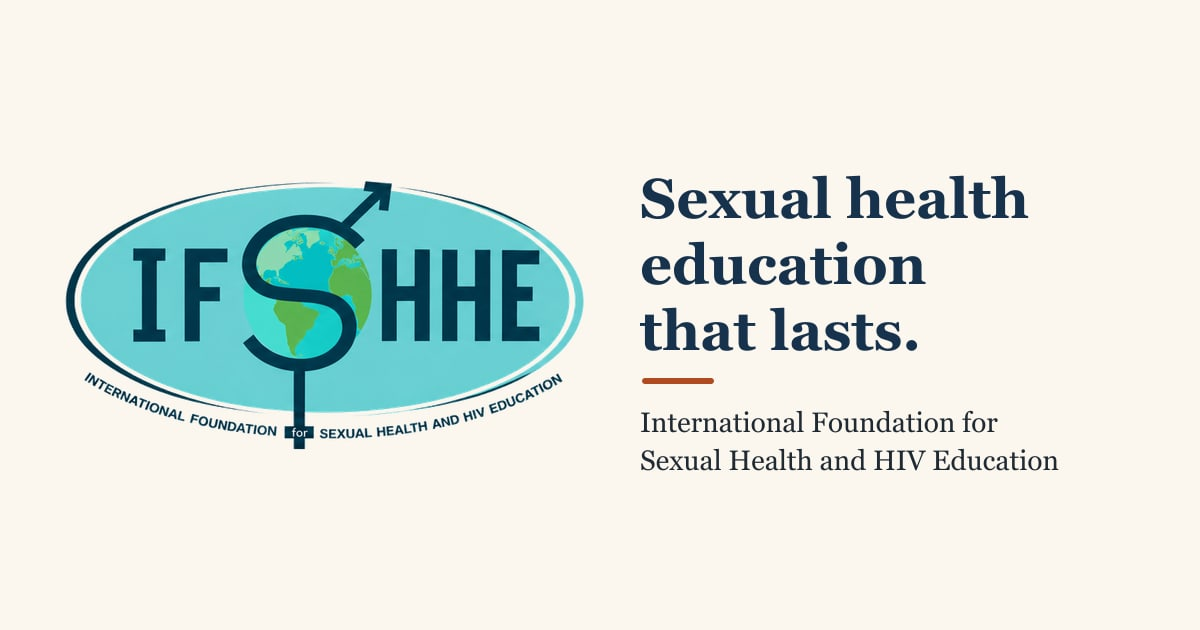
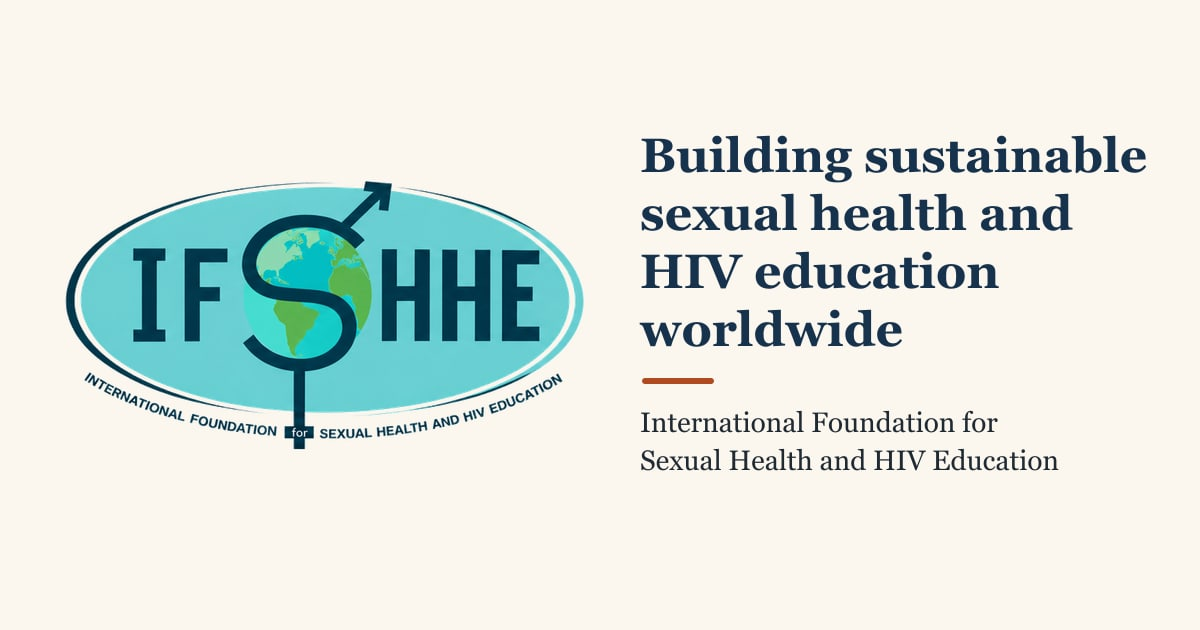
Launch prep: Sudan write-up from SHAWG report, old-site hero heading, coming-soon panels, private visitor counter
- Sudan panel rewritten from the 2023 SHAWG course report (en/ar/sw/ha)
- Hero heading and OG image use the old site's heading
- Nigeria and Tanzania panels marked "coming soon"
- Stats (94 trained, 3 courses) and Instagram link added
- Visitor counter no longer shown; GET requires VISITS_KEY
- Ignore client .docx source files

Changed region(s): [[0.5242, 0.2111, 0.9558, 0.573]]

diff --git a/js/i18n.js b/js/i18n.js
@@ -42,7 +42,7 @@ window.IFSHHE_I18N = {
 
     /* Hero */
     "hero.kicker": "Independent · Volunteer-led · UK-based",
-    "hero.title": "Sexual health education that lasts.",
+    "hero.title": "Building sustainable sexual health and HIV education worldwide",
     "hero.lede": "We are a volunteer-led foundation of UK clinicians. We work alongside doctors, nurses and educators in Sudan, Nigeria and Tanzania to build sexual health, HIV and hepatitis education that keeps going long after we go home — designed with local clinicians, not for them.",
     "hero.cta1": "Partner with us",
     "hero.cta2": "See where we work",
@@ -101,15 +101,19 @@ window.IFSHHE_I18N = {
     "where.yearLabel": "Year",
     "where.didLabel": "What we did",
     "where.ledLabel": "What it led to",
+    "where.soon": "Full details coming soon.",
     "where.selected": "selected",
     "where.homeLabel": "Home",
 
     "country.sd.name": "Sudan",
-    "country.sd.partner": "SHAWG",
-    "country.sd.summary": "A foundation programme in sexually transmitted infections, built and taught with SHAWG for clinicians across Sudan.",
-    "country.sd.b1": "Foundation STI training programme co-designed with SHAWG",
-    "country.sd.b2": "Case-based teaching on diagnosis and management of common STIs",
-    "country.sd.outcome": "Local clinicians now have a shared foundation course to build on.",
+    "country.sd.partner": "SHAWG · Sudan Ministry of Health",
+    "country.sd.when": "February–March 2023",
+    "country.sd.summary": "Our first course: a three-day foundation course in sexually transmitted infections for clinicians in Khartoum, delivered with the Sudan HIV/AIDS Working Group (SHAWG) and endorsed by the Sudan Ministry of Health.",
+    "country.sd.b1": "Taught 42 clinicians at the Omdurman HIV/AIDS Antiretroviral Therapy Centre",
+    "country.sd.b2": "Adapted the UK STI Foundation course for Sudan, adding HIV, hepatitis, sexual dysfunction and TB, with local speakers",
+    "country.sd.b3": "Lectures, small-group work, role play and practical sessions shaped to the local cultural and religious context",
+    "country.sd.b4": "Supported by the IOM Health Development Programme, the Patients Helping Fund and the WHO",
+    "country.sd.outcome": "Participants rated the teaching 4–5 out of 5 and asked for more, leading to plans for courses in other regions of Sudan and for training local trainers.",
     "country.sd.cta": "Ask about working with us in Sudan",
 
     "country.ng.name": "Nigeria",
@@ -248,8 +252,6 @@ window.IFSHHE_I18N = {
     "footer.insta": "Instagram",
     "footer.instaSoon": "Instagram — coming soon",
     "footer.based": "Based in the United Kingdom",
-    "footer.visits": "Visits since launch",
-    "footer.visitsLabel": "Visitor counter",
     "footer.copyright": "International Foundation for Sexual Health and HIV Education. All rights reserved.",
 
     /* thank-you.html */
@@ -297,7 +299,7 @@ window.IFSHHE_I18N = {
 
     /* Hero */
     "hero.kicker": "مستقلة · بقيادة متطوعين · مقرها المملكة المتحدة",
-    "hero.title": "تعليم في الصحة الجنسية يدوم أثره.",
+    "hero.title": "نبني تعليماً مستداماً في الصحة الجنسية وفيروس نقص المناعة البشرية حول العالم",
     "hero.lede": "نحن مؤسسة يقودها متطوعون من الأطباء العاملين في المملكة المتحدة. نعمل جنباً إلى جنب مع الأطباء والممرضين والمعلمين في السودان ونيجيريا وتنزانيا لبناء تعليم في الصحة الجنسية وفيروس نقص المناعة البشرية والتهاب الكبد يستمر طويلاً بعد عودتنا إلى بلادنا — تعليم مصمَّم مع الأطباء المحليين، لا نيابةً عنهم.",
     "hero.cta1": "كن شريكاً لنا",
     "hero.cta2": "اكتشف أين نعمل",
@@ -356,15 +358,19 @@ window.IFSHHE_I18N = {
     "where.yearLabel": "السنة",
     "where.didLabel": "ما قمنا به",
     "where.ledLabel": "ما أدى إليه",
+    "where.soon": "التفاصيل الكاملة قريباً.",
     "where.selected": "محدد",
     "where.homeLabel": "المقر",
 
     "country.sd.name": "السودان",
-    "country.sd.partner": "SHAWG",
-    "country.sd.summary": "برنامج تأسيسي في الأمراض المنقولة جنسياً، بُني ودُرّس بالتعاون مع SHAWG للأطباء في مختلف أنحاء السودان.",
-    "country.sd.b1": "برنامج تدريبي تأسيسي في الأمراض المنقولة جنسياً صُمّم بالاشتراك مع SHAWG",
-    "country.sd.b2": "تدريس قائم على الحالات في تشخيص الأمراض المنقولة جنسياً الشائعة وعلاجها",
-    "country.sd.outcome": "أصبح لدى الأطباء المحليين الآن دورة تأسيسية مشتركة يبنون عليها.",
+    "country.sd.partner": "SHAWG · وزارة الصحة السودانية",
+    "country.sd.when": "فبراير–مارس 2023",
+    "country.sd.summary": "دورتنا الأولى: دورة تأسيسية مدتها ثلاثة أيام في الأمراض المنقولة جنسياً للأطباء في الخرطوم، نُفّذت بالتعاون مع مجموعة عمل السودان لفيروس نقص المناعة البشرية/الإيدز (SHAWG) وبمصادقة وزارة الصحة السودانية.",
+    "country.sd.b1": "تدريب 42 طبيباً في مركز أم درمان للعلاج بمضادات الفيروسات القهقرية لفيروس نقص المناعة البشرية/الإيدز",
+    "country.sd.b2": "تكييف الدورة التأسيسية البريطانية للأمراض المنقولة جنسياً للسودان، مع إضافة فيروس نقص المناعة البشرية والتهاب الكبد والاضطرابات الجنسية والسل، بمشاركة متحدثين محليين",
+    "country.sd.b3": "محاضرات وعمل في مجموعات صغيرة ولعب أدوار وجلسات عملية تراعي السياق الثقافي والديني المحلي",
+    "country.sd.b4": "بدعم من برنامج التنمية الصحية التابع للمنظمة الدولية للهجرة، وصندوق إعانة المرضى، ومنظمة الصحة العالمية",
+    "country.sd.outcome": "قيّم المشاركون التدريس بدرجة 4–5 من 5 وطلبوا المزيد، ما أدى إلى خطط لدورات في مناطق أخرى من السودان ولتدريب مدربين محليين.",
     "country.sd.cta": "اسأل عن العمل معنا في السودان",
 
     "country.ng.name": "نيجيريا",
@@ -503,8 +509,6 @@ window.IFSHHE_I18N = {
     "footer.insta": "إنستغرام",
     "footer.instaSoon": "إنستغرام — قريباً",
     "footer.based": "مقرنا في المملكة المتحدة",
-    "footer.visits": "الزيارات منذ الإطلاق",
-    "footer.visitsLabel": "عداد الزوار",
     "footer.copyright": "المؤسسة الدولية للتثقيف في الصحة الجنسية وفيروس نقص المناعة البشرية. جميع الحقوق محفوظة.",
 
     /* thank-you.html */
@@ -552,7 +556,7 @@ window.IFSHHE_I18N = {
 
     /* Hero */
     "hero.kicker": "Huru · Inaongozwa na wajitolea · Makao yake Uingereza",
-    "hero.title": "Elimu ya afya ya ngono inayodumu.",
+    "hero.title": "Kujenga elimu endelevu ya afya ya ngono na VVU duniani kote",
     "hero.lede": "Sisi ni taasisi inayoongozwa na wajitolea, matabibu kutoka Uingereza. Tunashirikiana na madaktari, wauguzi na waelimishaji nchini Sudan, Nigeria na Tanzania kujenga elimu ya afya ya ngono, VVU na homa ya ini inayoendelea muda mrefu baada ya sisi kurudi nyumbani — iliyobuniwa pamoja na matabibu wa ndani, si kwa niaba yao.",
     "hero.cta1": "Shirikiana nasi",
     "hero.cta2": "Ona tunapofanya kazi",
@@ -611,15 +615,19 @@ window.IFSHHE_I18N = {
     "where.yearLabel": "Mwaka",
     "where.didLabel": "Tulichofanya",
     "where.ledLabel": "Kilichotokana nacho",
+    "where.soon": "Maelezo kamili yanakuja hivi karibuni.",
     "where.selected": "imechaguliwa",
     "where.homeLabel": "Makao",
 
     "country.sd.name": "Sudan",
-    "country.sd.partner": "SHAWG",
-    "country.sd.summary": "Programu ya msingi kuhusu magonjwa ya zinaa, iliyojengwa na kufundishwa pamoja na SHAWG kwa matabibu kote Sudan.",
-    "country.sd.b1": "Programu ya msingi ya mafunzo ya magonjwa ya zinaa iliyobuniwa pamoja na SHAWG",
-    "country.sd.b2": "Ufundishaji unaotegemea kesi za wagonjwa kuhusu utambuzi na matibabu ya magonjwa ya zinaa ya kawaida",
-    "country.sd.outcome": "Matabibu wa ndani sasa wana kozi ya msingi ya pamoja ya kujengea.",
+    "country.sd.partner": "SHAWG · Wizara ya Afya ya Sudan",
+    "country.sd.when": "Februari–Machi 2023",
+    "country.sd.summary": "Kozi yetu ya kwanza: kozi ya msingi ya siku tatu kuhusu magonjwa ya zinaa kwa matabibu mjini Khartoum, iliyotolewa pamoja na Kikundi Kazi cha VVU/UKIMWI cha Sudan (SHAWG) na kuidhinishwa na Wizara ya Afya ya Sudan.",
+    "country.sd.b1": "Tulifundisha matabibu 42 katika Kituo cha Tiba ya Dawa za Kufubaza VVU cha Omdurman",
+    "country.sd.b2": "Tulirekebisha kozi ya msingi ya magonjwa ya zinaa ya Uingereza kwa Sudan, tukiongeza VVU, homa ya ini, matatizo ya kingono na TB, pamoja na wazungumzaji wa ndani",
+    "country.sd.b3": "Mihadhara, kazi za vikundi vidogo, maigizo dhima na vipindi vya vitendo vilivyozingatia muktadha wa kitamaduni na kidini wa eneo hilo",
+    "country.sd.b4": "Kwa msaada wa Programu ya Maendeleo ya Afya ya IOM, Mfuko wa Kusaidia Wagonjwa na WHO",
+    "country.sd.outcome": "Washiriki waliupa ufundishaji alama 4–5 kati ya 5 na kuomba zaidi, jambo lililosababisha mipango ya kozi katika maeneo mengine ya Sudan na ya kuwafunza wakufunzi wa ndani.",
     "country.sd.cta": "Uliza kuhusu kufanya kazi nasi Sudan",
 
     "country.ng.name": "Nigeria",
@@ -758,8 +766,6 @@ window.IFSHHE_I18N = {
     "footer.insta": "Instagram",
     "footer.instaSoon": "Instagram — inakuja hivi karibuni",
     "footer.based": "Makao yake Uingereza",
-    "footer.visits": "Ziara tangu kuzinduliwa",
-    "footer.visitsLabel": "Kihesabu wageni",
     "footer.copyright": "Taasisi ya Kimataifa ya Elimu ya Afya ya Ngono na VVU. Haki zote zimehifadhiwa.",
 
     /* thank-you.html */
@@ -807,7 +813,7 @@ window.IFSHHE_I18N = {
 
     /* Hero */
     "hero.kicker": "Mai zaman kanta · Masu sa kai ke jagoranta · Mazauna Birtaniya",
-    "hero.title": "Ilimin lafiyar jima'i mai ɗorewa.",
+    "hero.title": "Gina ilimin lafiyar jima'i da HIV mai ɗorewa a faɗin duniya",
     "hero.lede": "Mu gidauniya ce da masu sa kai ke jagoranta, likitoci daga Birtaniya. Muna aiki kafaɗa da kafaɗa da likitoci, ma'aikatan jinya da malamai a Sudan, Najeriya da Tanzaniya don gina ilimin lafiyar jima'i, HIV da ciwon hanta da zai ci gaba tun bayan mun koma gida — an tsara shi tare da likitocin gida, ba a madadinsu ba.",
     "hero.cta1": "Haɗa gwiwa da mu",
     "hero.cta2": "Duba inda muke aiki",
@@ -866,15 +872,19 @@ window.IFSHHE_I18N = {
     "where.yearLabel": "Shekara",
     "where.didLabel": "Abin da muka yi",
     "where.ledLabel": "Abin da ya haifar",
+    "where.soon": "Cikakken bayani na nan tafe.",
     "where.selected": "an zaɓa",
     "where.homeLabel": "Gida",
 
     "country.sd.name": "Sudan",
-    "country.sd.partner": "SHAWG",
-    "country.sd.summary": "Shirin tushe kan cututtukan da ake ɗauka ta hanyar jima'i, da aka gina kuma aka koyar tare da SHAWG ga likitoci a faɗin Sudan.",
-    "country.sd.b1": "Shirin horo na tushe kan cututtukan jima'i da aka tsara tare da SHAWG",
-    "country.sd.b2": "Koyarwa bisa marasa lafiya kan gano da kuma magance cututtukan jima'i da suka fi yawa",
-    "country.sd.outcome": "Likitocin gida yanzu suna da kwas na tushe da za su gina a kai.",
+    "country.sd.partner": "SHAWG · Ma'aikatar Lafiya ta Sudan",
+    "country.sd.when": "Fabrairu–Maris 2023",
+    "country.sd.summary": "Kwasanmu na farko: kwas na tushe na kwana uku kan cututtukan da ake ɗauka ta hanyar jima'i ga likitoci a Khartoum, tare da Ƙungiyar Aiki kan HIV/AIDS ta Sudan (SHAWG), kuma Ma'aikatar Lafiya ta Sudan ta amince da shi.",
+    "country.sd.b1": "Mun horar da likitoci 42 a Cibiyar Maganin Rage Ƙarfin HIV ta Omdurman",
+    "country.sd.b2": "Mun daidaita kwas na tushe kan cututtukan jima'i na Birtaniya don Sudan, muka ƙara HIV, ciwon hanta, matsalolin jima'i da tarin fuka, tare da masu jawabi na gida",
+    "country.sd.b3": "Laccoci, aikin ƙananan ƙungiyoyi, wasan kwaikwayo da zaman aiki da hannu, bisa al'adu da addinin yankin",
+    "country.sd.b4": "Tare da tallafin Shirin Ci Gaban Lafiya na IOM, Asusun Taimakon Marasa Lafiya da WHO",
+    "country.sd.outcome": "Mahalarta sun ba koyarwar maki 4–5 cikin 5 kuma sun nemi ƙari, wanda ya kai ga shirye-shiryen gudanar da kwasa-kwasai a wasu yankunan Sudan da horar da masu horarwa na gida.",
     "country.sd.cta": "Tambaya game da aiki da mu a Sudan",
 
     "country.ng.name": "Najeriya",
@@ -1013,8 +1023,6 @@ window.IFSHHE_I18N = {
     "footer.insta": "Instagram",
     "footer.instaSoon": "Instagram — nan ba da daɗewa ba",
     "footer.based": "Mazauna Birtaniya",
-    "footer.visits": "Ziyarori tun ƙaddamarwa",
-    "footer.visitsLabel": "Ƙidayar baƙi",
     "footer.copyright": "Gidauniyar Ƙasa da Ƙasa don Ilimin Lafiyar Jima'i da HIV. An kiyaye dukkan haƙƙoƙi.",
 
     /* thank-you.html */

diff --git a/index.html b/index.html
@@ -132,7 +132,7 @@
       <div class="wrap hero-inner">
         <div class="hero-copy" data-reveal>
           <p class="kicker" data-i18n="hero.kicker">Independent · Volunteer-led · UK-based</p>
-          <h1 id="hero-title" data-i18n="hero.title">Sexual health education that lasts.</h1>
+          <h1 id="hero-title" data-i18n="hero.title">Building sustainable sexual health and HIV education worldwide</h1>
           <p class="lede" data-i18n="hero.lede">We are a volunteer-led foundation of UK clinicians. We work alongside doctors, nurses and educators in Sudan, Nigeria and Tanzania to build sexual health, HIV and hepatitis education that keeps going long after we go home — designed with local clinicians, not for them.</p>
           <div class="hero-actions">
             <a class="btn btn-accent" href="#get-involved" data-i18n="hero.cta1">Partner with us</a>
@@ -305,17 +305,20 @@
             <article class="country-panel" id="country-sd" data-country="sd" aria-labelledby="country-sd-title">
               <span class="country-code" aria-hidden="true">SD</span>
               <h3 id="country-sd-title" tabindex="-1" data-i18n="country.sd.name">Sudan</h3>
-              <p class="country-partner"><span data-i18n="where.partnerLabel">Partner</span> · <span data-i18n="country.sd.partner">SHAWG</span></p>
-              <p class="country-summary" data-i18n="country.sd.summary">A foundation programme in sexually transmitted infections, built and taught with SHAWG for clinicians across Sudan.</p>
+              <p class="country-partner"><span data-i18n="where.partnerLabel">Partner</span> · <span data-i18n="country.sd.partner">SHAWG · Sudan Ministry of Health</span></p>
+              <p class="country-year"><span data-i18n="where.yearLabel">Year</span> · <span data-i18n="country.sd.when">February–March 2023</span></p>
+              <p class="country-summary" data-i18n="country.sd.summary">Our first course: a three-day foundation course in sexually transmitted infections for clinicians in Khartoum, delivered with the Sudan HIV/AIDS Working Group (SHAWG) and endorsed by the Sudan Ministry of Health.</p>
               <h4 data-i18n="where.didLabel">What we did</h4>
               <ul class="country-list">
-                <li data-i18n="country.sd.b1">Foundation STI training programme co-designed with SHAWG</li>
-                <li data-i18n="country.sd.b2">Case-based teaching on diagnosis and management of common STIs</li>
+                <li data-i18n="country.sd.b1">Taught 42 clinicians at the Omdurman HIV/AIDS Antiretroviral Therapy Centre</li>
+                <li data-i18n="country.sd.b2">Adapted the UK STI Foundation course for Sudan, adding HIV, hepatitis, sexual dysfunction and TB, with local speakers</li>
+                <li data-i18n="country.sd.b3">Lectures, small-group work, role play and practical sessions shaped to the local cultural and religious context</li>
+                <li data-i18n="country.sd.b4">Supported by the IOM Health Development Programme, the Patients Helping Fund and the WHO</li>
               </ul>
-              <p class="country-outcome"><strong data-i18n="where.ledLabel">What it led to</strong> <span data-i18n="country.sd.outcome">Local clinicians now have a shared foundation course to build on.</span></p>
+              <p class="country-outcome"><strong data-i18n="where.ledLabel">What it led to</strong> <span data-i18n="country.sd.outcome">Participants rated the teaching 4–5 out of 5 and asked for more, leading to plans for courses in other regions of Sudan and for training local trainers.</span></p>
               <a class="btn btn-ghost btn-sm" href="#contact" data-interest="partner" data-country="sd" data-i18n="country.sd.cta">Ask about working with us in Sudan</a>
             </article>
-            <article class="country-panel" id="country-ng" data-country="ng" aria-labelledby="country-ng-title">
+            <article class="country-panel" id="country-ng" data-country="ng" data-soon aria-labelledby="country-ng-title">
               <span class="country-code" aria-hidden="true">NG</span>
               <h3 id="country-ng-title" tabindex="-1" data-i18n="country.ng.name">Nigeria</h3>
               <p class="country-partner"><span data-i18n="where.partnerLabel">Partner</span> · <span data-i18n="country.ng.partner">International partners</span></p>
@@ -326,9 +329,10 @@
                 <li data-i18n="country.ng.b2">Delivered with international partners</li>
               </ul>
               <p class="country-outcome"><strong data-i18n="where.ledLabel">What it led to</strong> <span data-i18n="country.ng.outcome">A starting point for further work with young people's health services in Nigeria.</span></p>
+              <p class="country-soon" data-i18n="where.soon">Full details coming soon.</p>
               <a class="btn btn-ghost btn-sm" href="#contact" data-interest="partner" data-country="ng" data-i18n="country.ng.cta">Ask about working with us in Nigeria</a>
             </article>
-            <article class="country-panel" id="country-tz" data-country="tz" aria-labelledby="country-tz-title">
+            <article class="country-panel" id="country-tz" data-country="tz" data-soon aria-labelledby="country-tz-title">
               <span class="country-code" aria-hidden="true">TZ</span>
               <h3 id="country-tz-title" tabindex="-1" data-i18n="country.tz.name">Tanzania</h3>
               <p class="country-partner"><span data-i18n="where.partnerLabel">Partner</span> · <span data-i18n="country.tz.partner">RDTC, Moshi · ILDS · IFD</span></p>
@@ -342,6 +346,7 @@
                 <li data-i18n="country.tz.b4">Daily reflections and participant feedback shaped each day</li>
               </ul>
               <p class="country-outcome"><strong data-i18n="where.ledLabel">What it led to</strong> <span data-i18n="country.tz.outcome">A course that sits inside an established regional training centre and can be run again by local faculty.</span></p>
+              <p class="country-soon" data-i18n="where.soon">Full details coming soon.</p>
               <a class="btn btn-ghost btn-sm" href="#contact" data-interest="partner" data-country="tz" data-i18n="country.tz.cta">Ask about working with us in Tanzania</a>
             </article>
             <article class="country-panel" id="country-gb" data-country="gb" aria-labelledby="country-gb-title">
@@ -683,7 +688,6 @@
     </div>
     <div class="wrap footer-bottom">
       <p class="copyright">© <span id="year">2026</span> <span data-i18n="footer.copyright">International Foundation for Sexual Health and HIV Education. All rights reserved.</span></p>
-      <p class="visits" id="visits" hidden><span data-i18n="footer.visits">Visits since launch</span>: <span id="visit-count"></span></p>
     </div>
   </footer>
 

diff --git a/js/main.js b/js/main.js
@@ -3,7 +3,7 @@
  * Everything here is progressive enhancement: the page reads fine without it.
  * Order: helpers → header/nav → language menu → drawer → reveal → gallery →
  * dynamic content (partners, members, stats, Instagram) → contact form →
- * floating CTA → visitor counter → year.
+ * floating CTA → visitor counter (private) → year.
  */
 document.documentElement.classList.add("js");
 
@@ -373,22 +373,13 @@ document.documentElement.classList.add("js");
     mobileMQ.addEventListener("change", updateFloat);
   }
 
-  /* ---------- Visitor counter: count once per session, hide if unavailable ---------- */
-  (async function visits() {
-    const box = $("#visits"), out = $("#visit-count");
-    if (!box || !out) return;
+  /* ---------- Visitor counter: count once per session (private — nothing shown on the page) ---------- */
+  (function visits() {
     const KEY = "ifshhe_counted";
-    let counted = false;
-    try { counted = sessionStorage.getItem(KEY) === "1"; } catch {}
-    try {
-      const res = await fetch("/api/visits", { method: counted ? "GET" : "POST", headers: { Accept: "application/json" } });
-      if (!res.ok) return;
-      const { count } = await res.json();
-      if (typeof count !== "number") return;
-      try { sessionStorage.setItem(KEY, "1"); } catch {}
-      out.textContent = count.toLocaleString(document.documentElement.lang || "en");
-      box.hidden = false;
-    } catch {}
+    try { if (sessionStorage.getItem(KEY) === "1") return; } catch {}
+    fetch("/api/visits", { method: "POST", headers: { Accept: "application/json" } })
+      .then((res) => { if (res.ok) { try { sessionStorage.setItem(KEY, "1"); } catch {} } })
+      .catch(() => {});
   })();
 
   /* ---------- Year ---------- */

diff --git a/js/content.js b/js/content.js
@@ -22,7 +22,7 @@
  * it re-fits itself at the next build.
  */
 window.IFSHHE_COUNTRIES = [
-  { id: "729", code: "sd", year: "", lat: 15.5, lon: 30.5 },               // Sudan
+  { id: "729", code: "sd", year: "2023", lat: 15.5, lon: 30.5 },           // Sudan (Khartoum, Feb–Mar 2023)
   { id: "566", code: "ng", year: "", lat: 9.1, lon: 8.7 },                 // Nigeria
   { id: "834", code: "tz", year: "2026", lat: -6.4, lon: 35.0 },           // Tanzania (RDTC, Moshi, February 2026)
   { id: "826", code: "gb", year: "", lat: 54.0, lon: -2.5, home: true },   // United Kingdom
@@ -72,6 +72,9 @@ window.IFSHHE_MEMBERS = [
  */
 window.IFSHHE_STATS = [
   // { value: 500, suffix: "+", label: "clinicians trained", labelTranslations: { ar: "", sw: "", ha: "" } },
+  // Confirmed by Nadia, October 2026.
+  { value: 94, label: "healthcare professionals trained", labelTranslations: { ar: "من المهنيين الصحيين تلقّوا التدريب", sw: "wataalamu wa afya waliopata mafunzo", ha: "ma'aikatan lafiya da aka horar" } },
+  { value: 3, label: "courses delivered", labelTranslations: { ar: "دورات تدريبية أُنجزت", sw: "kozi zilizotolewa", ha: "kwasa-kwasan da aka gudanar" } },
 ];
 
 /*
@@ -81,5 +84,5 @@ window.IFSHHE_STATS = [
  * While it is empty the footer shows "Instagram — coming soon".
  */
 window.IFSHHE_SOCIAL = {
-  instagram: "",
+  instagram: "https://www.instagram.com/ifshhe.info/",
 };

diff --git a/css/map.css b/css/map.css
@@ -348,3 +348,14 @@
 
 /* Without JavaScript there is no map: the chips and panels carry the content. */
 html:not(.js) .map-frame { display: none; }
+
+/* Countries whose full write-up isn't ready: add data-soon to the panel in
+   index.html. The detailed text stays in the page source for later; remove
+   data-soon to show it again. */
+.country-soon { display: none; }
+.country-panel[data-soon] :is(.country-year, h4, .country-list, .country-outcome) { display: none; }
+.country-panel[data-soon] .country-soon {
+  display: block;
+  color: var(--color-muted);
+  font-style: italic;
+}

diff --git a/css/styles.css b/css/styles.css
@@ -757,8 +757,6 @@ textarea.input { resize: vertical; min-height: 140px; line-height: 1.5; }
   font-size: 13px; color: var(--color-on-navy-muted);
 }
 .copyright { margin: 0; max-width: none; }
-.visits { margin: 0; padding: .35rem .9rem; border-radius: var(--radius-pill); background: rgba(255, 255, 255, .08); white-space: nowrap; }
-#visit-count { color: var(--color-amber-on-navy); font-weight: 700; font-variant-numeric: tabular-nums; }
 @media (max-width: 959.98px) {
   .footer-grid { grid-template-columns: 1fr 1fr; gap: var(--space-6); }
   .footer-brand { grid-column: 1 / -1; }
